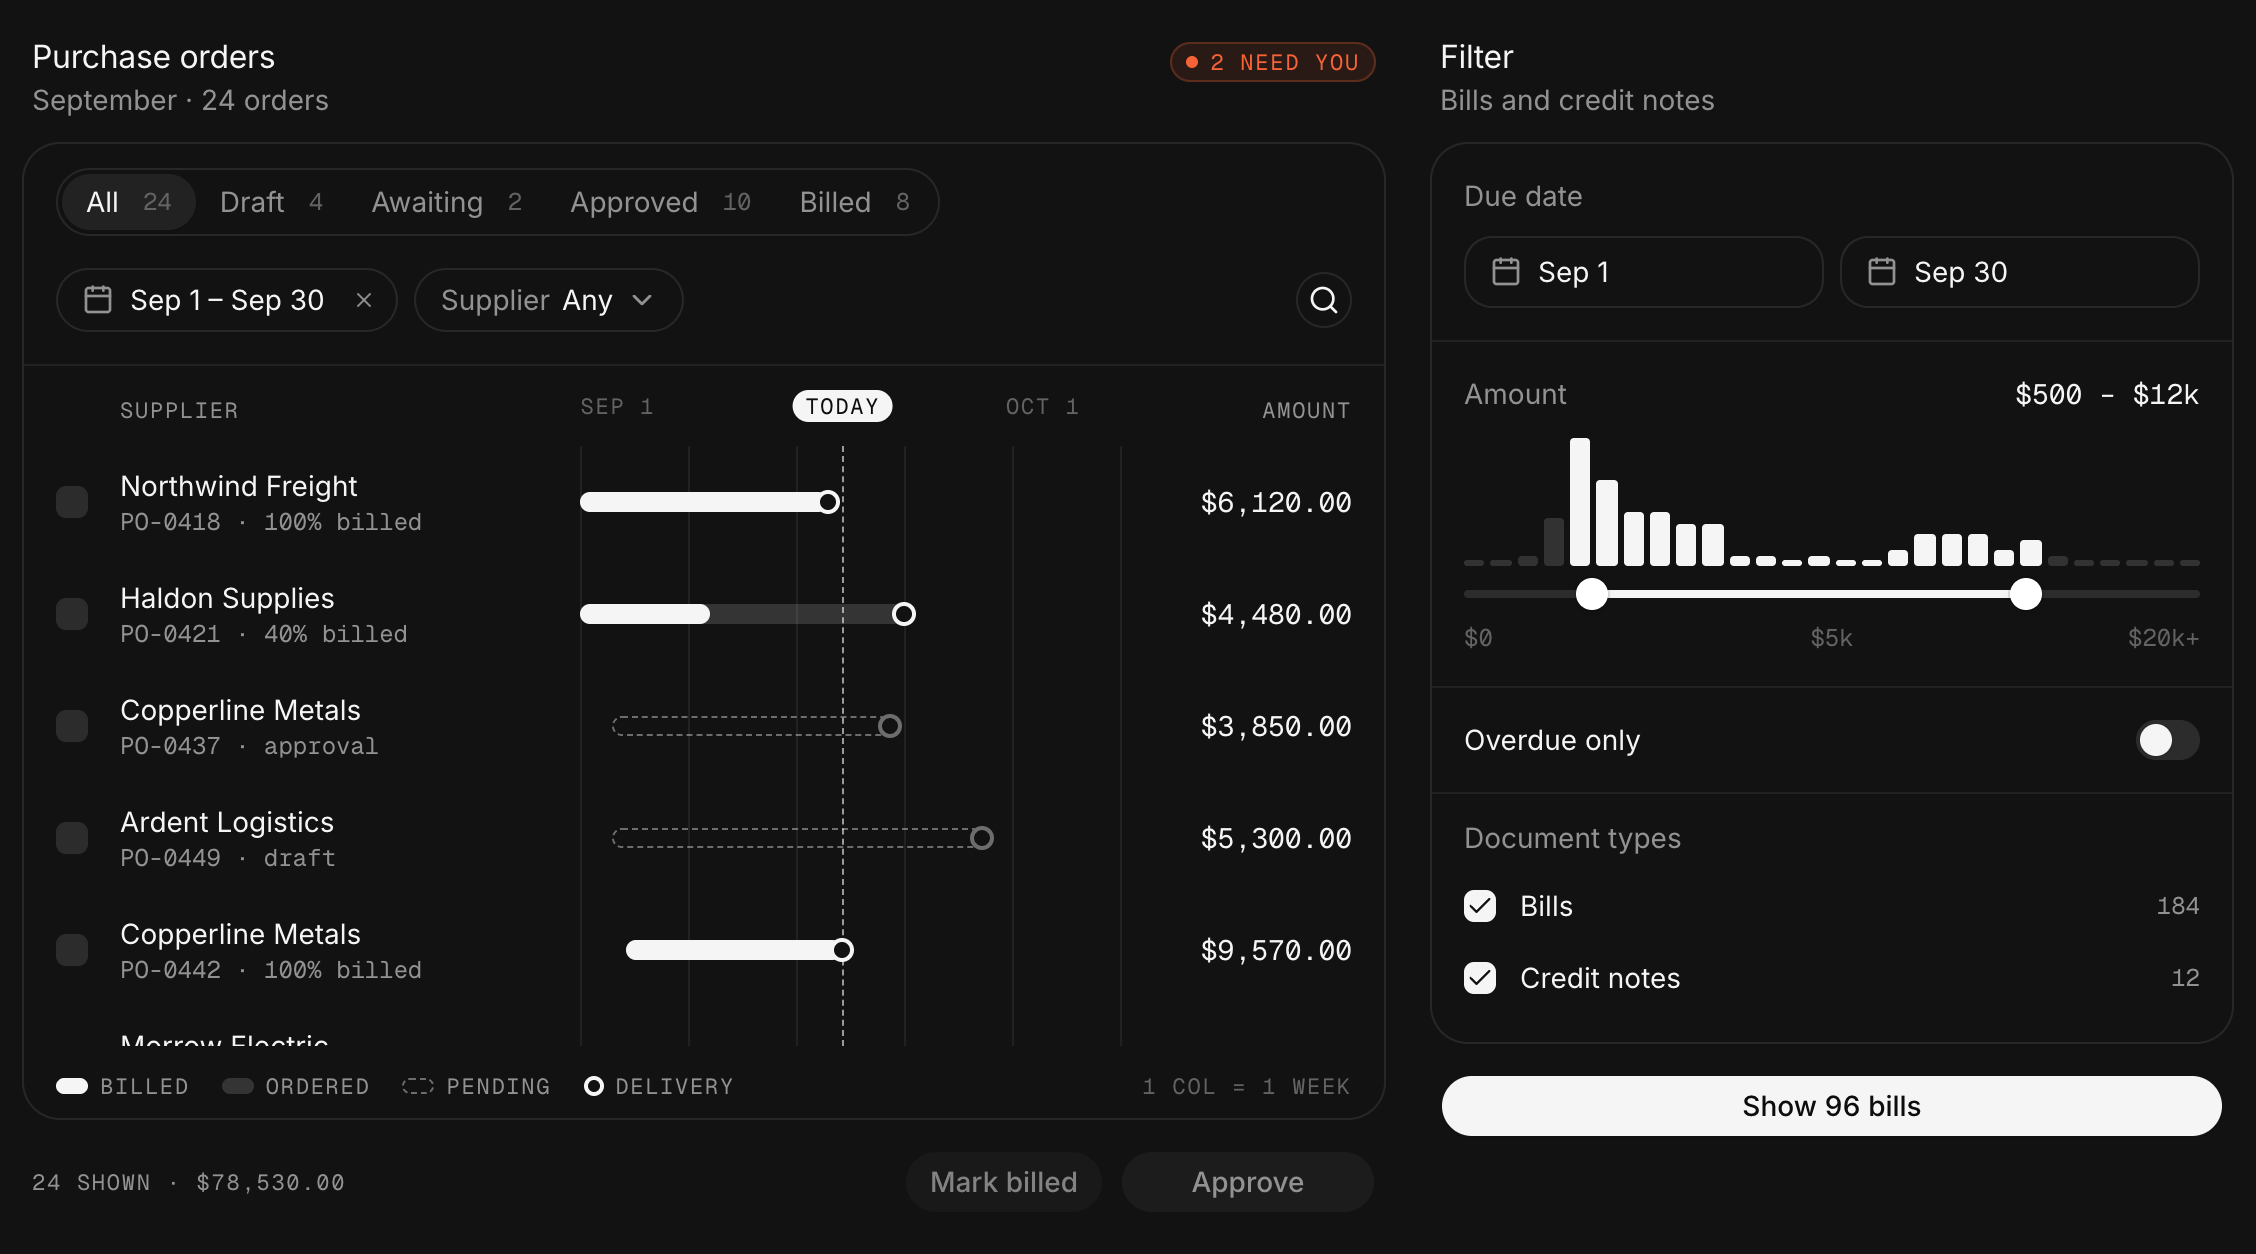
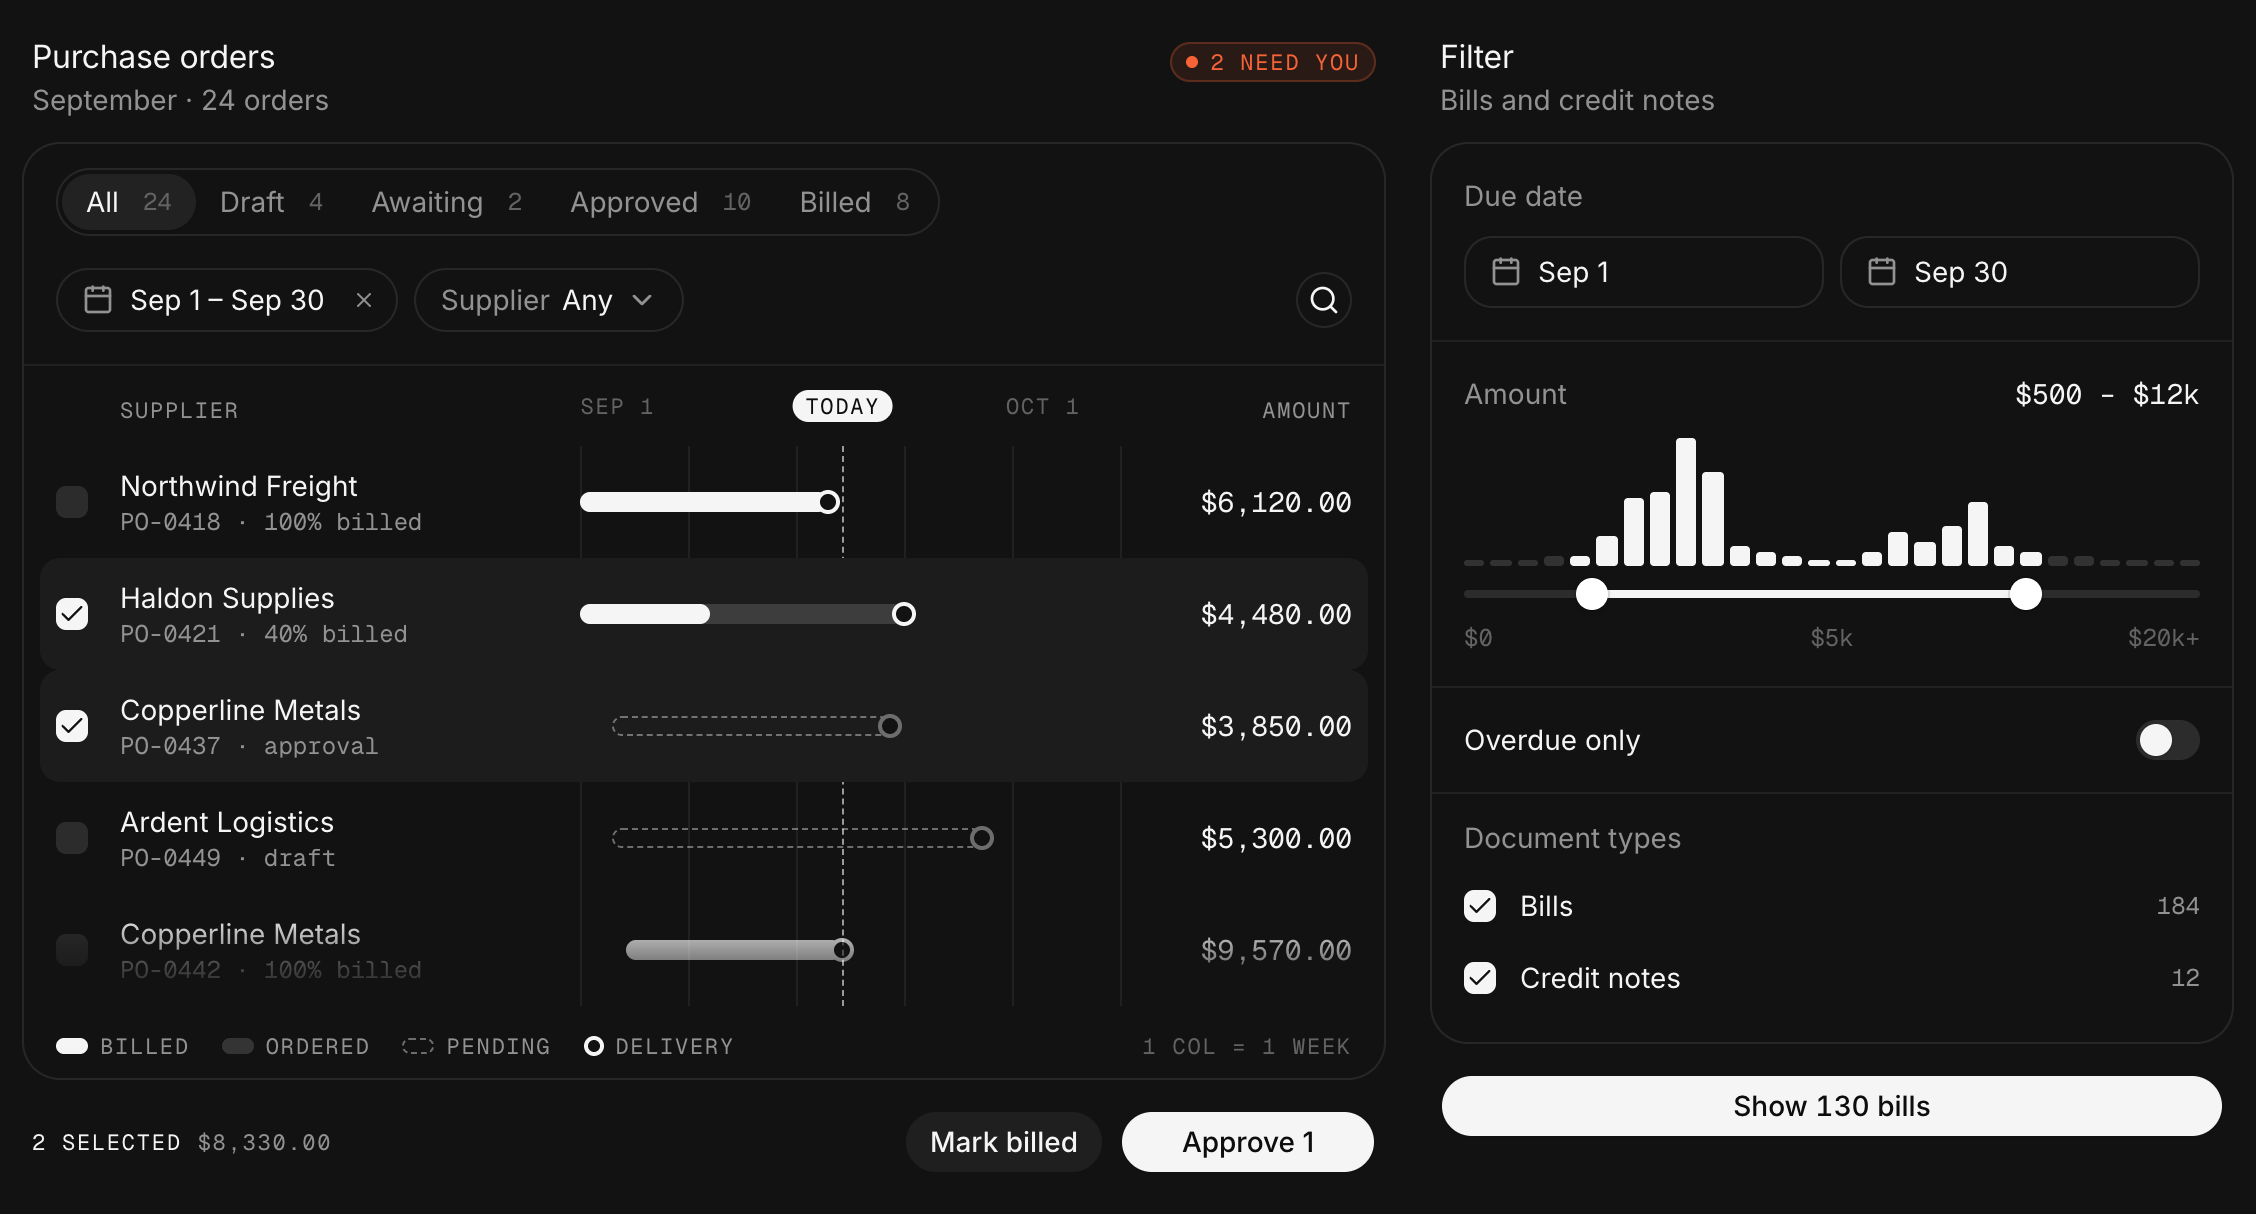
Purchase orders: verbs arrive with a selection, list cuts at whole rows with a fade below, example starts with two rows picked; Bills filter amounts in two soft humps

diff --git a/registry/blocks/purchase-orders.tsx b/registry/blocks/purchase-orders.tsx
@@ -95,6 +95,7 @@ export function PurchaseOrders({
   period,
   onApprove,
   onMarkBilled,
+  defaultSelected = [],
   className,
 }: {
   title?: string
@@ -105,13 +106,25 @@ export function PurchaseOrders({
   period: { from: string; to: string; label: string }
   onApprove?: (ids: string[]) => void | Promise<void>
   onMarkBilled?: (ids: string[]) => void | Promise<void>
+  /** Order ids that start selected. */
+  defaultSelected?: string[]
   className?: string
 }) {
   const [status, setStatus] = React.useState<OrderStatus | "all">("all")
   const [inPeriod, setInPeriod] = React.useState(true)
   const [supplier, setSupplier] = React.useState("any")
   const [query, setQuery] = React.useState<string | null>(null)
-  const [selected, setSelected] = React.useState<Set<string>>(new Set())
+  const [selected, setSelected] = React.useState<Set<string>>(
+    () => new Set(defaultSelected)
+  )
+  // A fade at the list's foot while more rows sit below it.
+  const [more, setMore] = React.useState(false)
+  const list = React.useRef<HTMLDivElement>(null)
+  const measure = () => {
+    const el = list.current
+    if (el) setMore(el.scrollTop + el.clientHeight < el.scrollHeight - 2)
+  }
+  React.useLayoutEffect(measure)
   const [action, setAction] = React.useState<Action>(null)
 
   const from = day(period.from)
@@ -384,7 +397,17 @@ export function PurchaseOrders({
               </span>
             </div>
 
-            <div role="list" className="relative max-h-[300px] overflow-y-auto">
+            <div
+              ref={list}
+              role="list"
+              onScroll={measure}
+              className={cn(
+                // Whole rows only: a row is 56px, so the cut never slices one.
+                "relative max-h-[280px] overflow-y-auto transition-[mask-image]",
+                more &&
+                  "[mask-image:linear-gradient(to_bottom,black_calc(100%-48px),transparent)]"
+              )}
+            >
               {visible.length === 0 && (
                 <p className="px-2 py-6 text-sm text-muted-foreground">
                   No orders match.
@@ -493,58 +516,61 @@ export function PurchaseOrders({
             </span>
           </WidgetMeta>
         )}
-        <div className="ml-auto flex gap-2">
-          {/* The secondary action: a real second verb for the same selection. */}
-          <Button
-            variant="secondary"
-            disabled={toBill.length === 0 || action !== null}
-            onClick={() =>
-              run(
-                "bill",
-                toBill.map((o) => o.id),
-                onMarkBilled
-              )
-            }
-          >
-            {action?.name === "bill" && action.state === "pending" && (
-              <Loader2Icon className="animate-spin" />
-            )}
-            {action?.name === "bill" && action.state === "done" && (
-              <CheckIcon />
-            )}
-            {action?.name === "bill"
-              ? action.state === "pending"
-                ? "Marking…"
-                : "Marked"
-              : "Mark billed"}
-          </Button>
-          <Button
-            variant="brand"
-            className="min-w-32"
-            disabled={toApprove.length === 0 || action !== null}
-            onClick={() =>
-              run(
-                "approve",
-                toApprove.map((o) => o.id),
-                onApprove
-              )
-            }
-          >
-            {action?.name === "approve" && action.state === "pending" && (
-              <Loader2Icon className="animate-spin" />
-            )}
-            {action?.name === "approve" && action.state === "done" && (
-              <CheckIcon />
-            )}
-            {action?.name === "approve"
-              ? action.state === "pending"
-                ? "Approving…"
-                : "Approved"
-              : toApprove.length > 0
-                ? `Approve ${toApprove.length}`
-                : "Approve"}
-          </Button>
-        </div>
+        {/* The verbs act on a selection, so they arrive with one. */}
+        {picked.length > 0 && (
+          <div className="ml-auto flex gap-2">
+            {/* The secondary action: a real second verb for the same selection. */}
+            <Button
+              variant="secondary"
+              disabled={toBill.length === 0 || action !== null}
+              onClick={() =>
+                run(
+                  "bill",
+                  toBill.map((o) => o.id),
+                  onMarkBilled
+                )
+              }
+            >
+              {action?.name === "bill" && action.state === "pending" && (
+                <Loader2Icon className="animate-spin" />
+              )}
+              {action?.name === "bill" && action.state === "done" && (
+                <CheckIcon />
+              )}
+              {action?.name === "bill"
+                ? action.state === "pending"
+                  ? "Marking…"
+                  : "Marked"
+                : "Mark billed"}
+            </Button>
+            <Button
+              variant="brand"
+              className="min-w-32"
+              disabled={toApprove.length === 0 || action !== null}
+              onClick={() =>
+                run(
+                  "approve",
+                  toApprove.map((o) => o.id),
+                  onApprove
+                )
+              }
+            >
+              {action?.name === "approve" && action.state === "pending" && (
+                <Loader2Icon className="animate-spin" />
+              )}
+              {action?.name === "approve" && action.state === "done" && (
+                <CheckIcon />
+              )}
+              {action?.name === "approve"
+                ? action.state === "pending"
+                  ? "Approving…"
+                  : "Approved"
+                : toApprove.length > 0
+                  ? `Approve ${toApprove.length}`
+                  : "Approve"}
+            </Button>
+          </div>
+        )}
       </WidgetFooter>
     </Widget>
   )

diff --git a/registry/examples/purchase-orders.tsx b/registry/examples/purchase-orders.tsx
@@ -107,9 +107,11 @@ function seedDocuments(): BillDocument[] {
   const r = rng(11)
   return Array.from({ length: 196 }, (_, i) => {
     const kind = i < 184 ? "bill" : "credit"
-    // Two humps: everyday bills around $1.5k, larger ones around $9k.
-    const big = r() < 0.32
-    const base = big ? 6500 + r() * 6000 : 300 + r() * r() * 3200
+    // Two soft humps: everyday bills around $1.8k, larger ones around $9k.
+    const big = r() < 0.38
+    const normal =
+      Math.sqrt(-2 * Math.log(r() || 1e-9)) * Math.cos(2 * Math.PI * r())
+    const base = Math.max(120, big ? 9000 + normal * 1700 : 1800 + normal * 650)
     const due = 1 + Math.floor(r() * 45)
     return {
       id: `D-${1000 + i}`,
@@ -133,6 +135,7 @@ export function PurchaseOrdersExample() {
     <div className="flex w-full flex-wrap items-start justify-center gap-6">
       <PurchaseOrders
         orders={orders}
+        defaultSelected={["PO-0421", "PO-0437"]}
         today={TODAY}
         period={{ from: iso(1), to: iso(30), label: "September" }}
         onApprove={(ids) =>

diff --git a/skills/uia/references/components.md b/skills/uia/references/components.md
@@ -315,7 +315,7 @@ The `example-*` files are only fixtures: data, simulation timers, and a
 | `AiSpend` | `block-ai-spend` | `models`, `periods`, `budget`, `alertAt`, `period`/`onPeriodChange`, `currency`, `locale`, `size` |
 | `FleetHealth` | `block-fleet-health` | `nodes`, `tokens`, `queue`, `powerCap`, `interval`, `clusters`/`cluster`, `mode`, `onRebalance`, `rebalancing`, `live` |
 | `GroundStation` | `block-ground-station` | `stations`/`stationId`, `satellites` (orbit elements + onboard), `selectedId`, `time`, `speed`, `mask`, `horizon`, `onBook`; exports `look` and `passes` so the host computes the same visibility |
-| `PurchaseOrders` | `block-purchase-orders` | `orders` (status, amount, ordered/delivery dates, billed share), `today`, `period`, `onApprove(ids)`, `onMarkBilled(ids)` |
+| `PurchaseOrders` | `block-purchase-orders` | `orders` (status, amount, ordered/delivery dates, billed share), `today`, `period`, `onApprove(ids)`, `onMarkBilled(ids)`, `defaultSelected`; the verbs show only with a selection, the list cuts at whole rows and fades while more sit below |
 | `MergeConflicts` | `block-merge-conflicts` | `number`, `title`, `head`/`base`, `branches` (lane order), `commits` (newest first, `parents`, `pending`), `files` (ours/theirs commit, hunks with `result` lines by origin, `outcome`, `note`), `state` (conflict → resolving → resolved → merging → merged), `resolved`, `onResolve`, `onMerge`, `size` |
 | `BillsFilter` | `block-bills-filter` | `documents`, `defaults`, `onApply(filter, count)`; exports `matches` |
 | `ModelEvals` | `block-model-evals` | `model`, `suites`, `baselines`, `failures`, `target`, `min`, `baseline`, `onRerun`, `running`, `labels`, `locale` |
